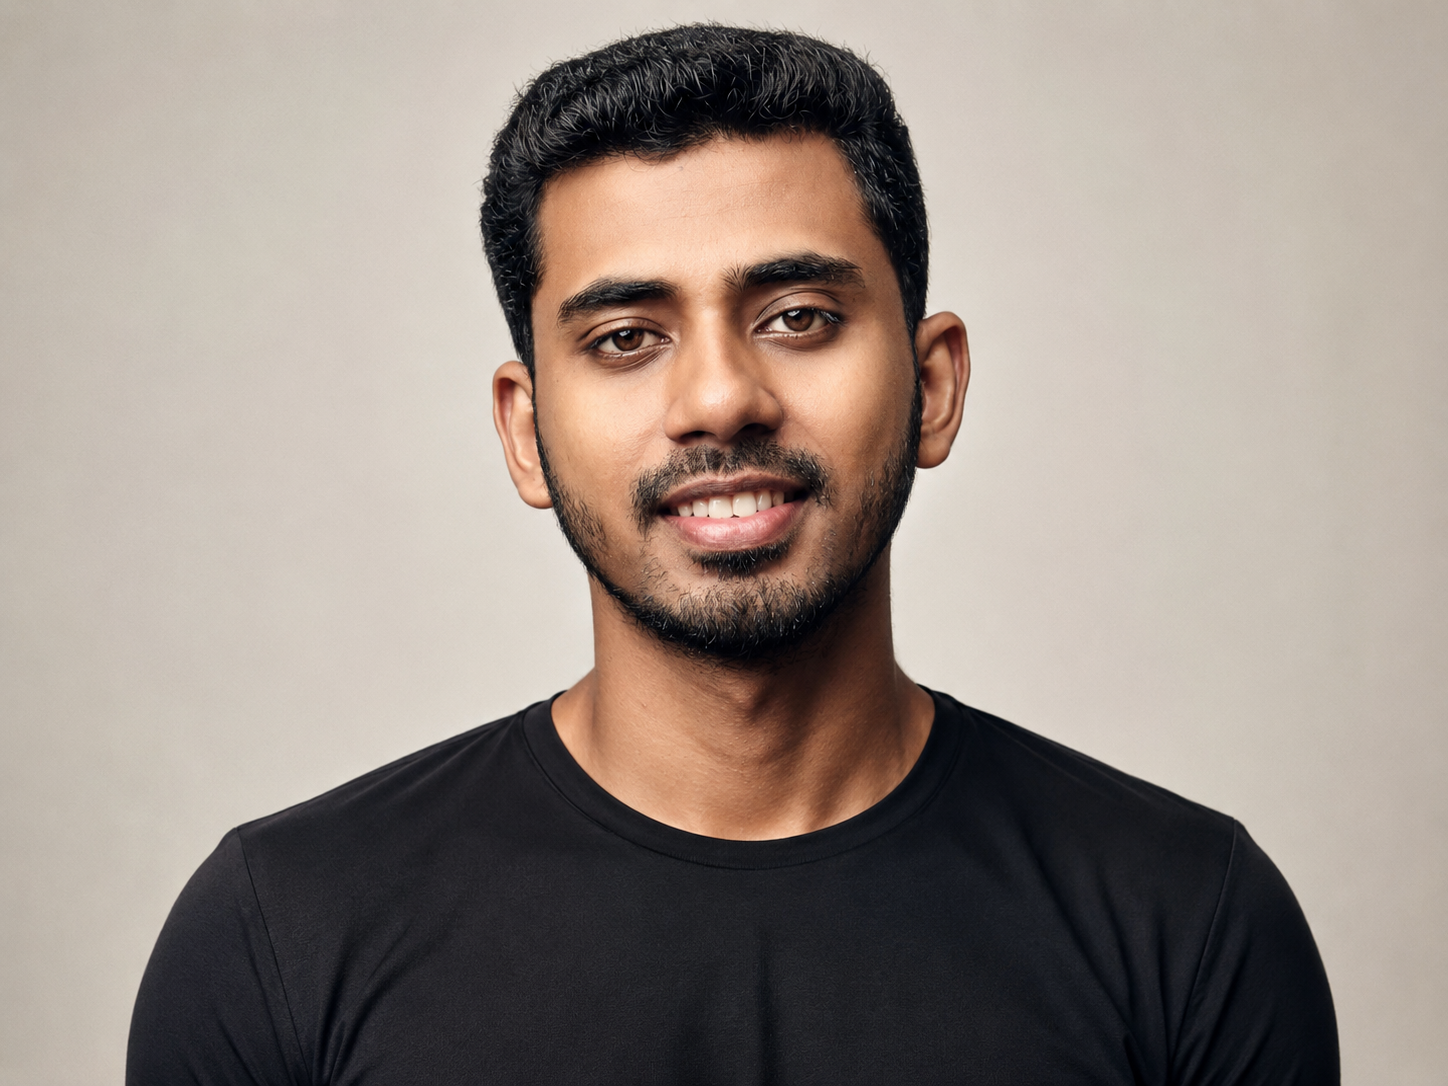
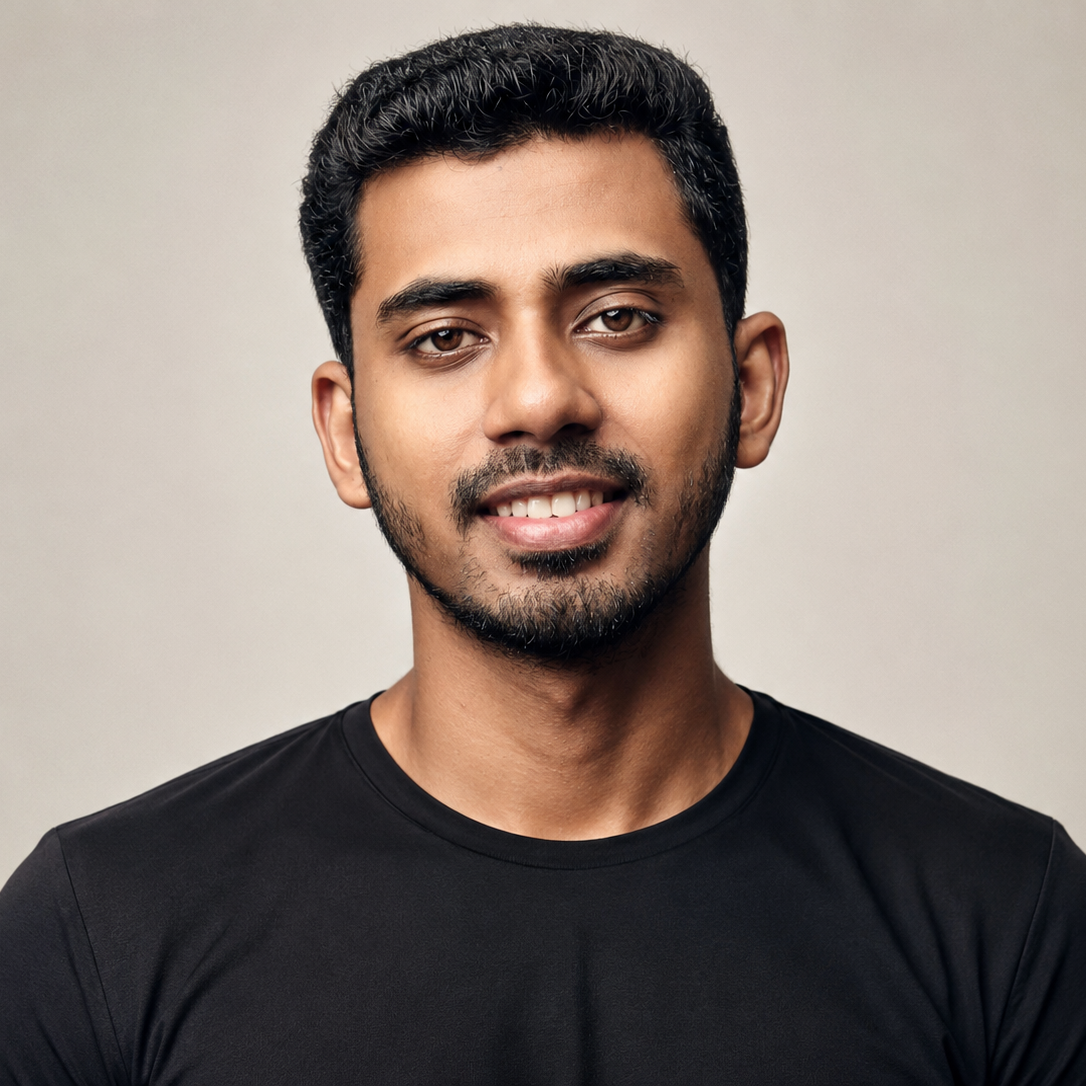
feat: enhance About page with new layout and social links; add Pronunciation component for name audio playback; update navigation styles

Changed region(s): [[0.0, 0.0, 1.0, 1.0], [0.1823, 0.9116, 0.2735, 1.0], [0.4558, 0.7597, 0.4862, 0.7901]]

diff --git a/app/about/page.tsx b/app/about/page.tsx
@@ -1,4 +1,4 @@
-import { LinkedinIcon, Github01Icon, Mail } from "@hugeicons/core-free-icons";
+import { LinkedinIcon, Github01Icon, Mail, IdIcon } from "@hugeicons/core-free-icons";
 import { HugeiconsIcon } from "@hugeicons/react";
 import Image from "next/image";
 import Link from "next/link";
@@ -10,8 +10,8 @@ import {
   PROFILE,
   ROUTES,
   SITE,
-  SOCIAL_HANDLES,
 } from "@/app/constants";
+import { Pronunciation } from "@/components/pronunciation";
 import {
   buildWebPageJsonLd,
   createPageMetadata,
@@ -37,14 +37,15 @@ const mailtoQuery = new URLSearchParams({
 const mailtoLink = `mailto:${PROFILE.primaryEmail}?${mailtoQuery}`;
 
 const socialLinks = [
-  { name: "LinkedIn", handle: SOCIAL_HANDLES.linkedIn, href: PROFILE.linkedInUrl, icon: LinkedinIcon },
-  { name: "GitHub", handle: SOCIAL_HANDLES.github, href: PROFILE.githubUrl, icon: Github01Icon },
-  { name: "Email", handle: PROFILE.primaryEmail, href: mailtoLink, icon: Mail },
+  { name: "LinkedIn", href: PROFILE.linkedInUrl, icon: LinkedinIcon },
+  { name: "GitHub", href: PROFILE.githubUrl, icon: Github01Icon },
+  { name: "Email", href: mailtoLink, icon: Mail },
+  { name: "ORCiD", href: PROFILE.orcidUrl, icon: IdIcon },
 ];
 
 export default function AboutPage() {
   return (
-    <section className="relative w-full ui-container ui-container-prose py-4 sm:py-8 lg:py-12">
+    <section className="relative w-full ui-container py-4 sm:py-8 lg:py-12">
       <script
         type="application/ld+json"
         dangerouslySetInnerHTML={{
@@ -60,42 +61,80 @@ export default function AboutPage() {
         }}
       />
 
-      <div className="space-y-10 sm:space-y-14">
-        {/* Avatar + identity */}
-        <div className="hero-fade-in flex items-center gap-5" style={{ animationDelay: "0ms" }}>
-          <div className="relative shrink-0 group cursor-default">
-            <div className="absolute inset-0 scale-125 rounded-full bg-blue-300/30 blur-lg opacity-0 transition-opacity duration-500 group-hover:opacity-100 dark:bg-blue-500/20" />
-            <div className="relative h-[72px] w-[72px] overflow-hidden rounded-full shadow-md ring-2 ring-blue-200/60 ring-offset-2 ring-offset-background transition-all duration-300 group-hover:ring-blue-300/90 group-hover:shadow-blue-100/60 dark:ring-blue-800/50 dark:ring-offset-background dark:group-hover:ring-blue-600/70">
-              <Image
-                src="/images/gulger-mallik@1x1.png"
-                alt={PROFILE.profileImageAlt}
-                width={72}
-                height={72}
-                className="rounded-full transition-transform duration-500 group-hover:scale-[1.06]"
-                priority
-              />
+      <div className="grid items-center gap-12 lg:grid-cols-2 lg:gap-16">
+        {/* Profile card over beige backdrop */}
+        <div
+          className="hero-fade-in relative flex justify-center py-10 sm:py-14"
+          style={{ animationDelay: "0ms" }}
+        >
+          <div
+            className="absolute inset-y-0 inset-x-0 bg-[#eadfd2] sm:right-16 dark:bg-[#2a2420]"
+            aria-hidden="true"
+          />
+          <div className="relative w-[280px] bg-[#f7f2ec] shadow-xl sm:w-[320px] sm:translate-x-6 dark:bg-[#1f1b18]">
+            <div className="flex flex-col items-center px-8 pb-9 pt-10 text-center">
+              <div className="h-40 w-40 overflow-hidden rounded-full bg-[var(--ui-bg-elevated)] sm:h-44 sm:w-44">
+                <Image
+                  src="/images/hero-image.png"
+                  alt={PROFILE.profileImageAlt}
+                  width={176}
+                  height={176}
+                  className="h-full w-full object-cover"
+                  priority
+                />
+              </div>
+              <h1 className="mt-8 text-xl font-bold tracking-tight text-[var(--ui-text-primary)]">
+                Mr. {SITE.ownerName}
+              </h1>
+              <Pronunciation />
+              <div className="mt-5 h-px w-10 bg-[var(--ui-text-primary)]" aria-hidden="true" />
+              <p className="mt-5 text-sm uppercase tracking-[0.18em] text-[var(--ui-text-secondary)]">
+                Researcher :{" "}
+                <Link
+                  href={PROFILE.affiliationUrl}
+                  target="_blank"
+                  rel="noreferrer"
+                  className="transition-colors hover:text-[var(--ui-text-primary)]"
+                >
+                  {PROFILE.affiliationName}
+                </Link>
+              </p>
             </div>
-          </div>
-          <div>
-            <h1 className="hero-name">{SITE.ownerName}</h1>
-            <p className="hero-role mt-1">
-              {PAGE_COPY.homepageRolePrefix}{" "}
-              <Link
-                href={PROFILE.affiliationUrl}
-                target="_blank"
-                rel="noreferrer"
-                className="hero-affiliation"
-              >
-                {PROFILE.affiliationName}
-              </Link>
-            </p>
+            <div className="flex items-center justify-center gap-9 bg-white py-4 dark:bg-[#171310]">
+              {socialLinks.map((link) => (
+                <Link
+                  key={link.name}
+                  href={link.href}
+                  target="_blank"
+                  rel="noreferrer"
+                  aria-label={link.name}
+                  className="text-[var(--ui-text-primary)] transition-opacity hover:opacity-60"
+                >
+                  <HugeiconsIcon icon={link.icon} className="h-5 w-5" aria-hidden="true" />
+                </Link>
+              ))}
+            </div>
           </div>
         </div>
 
-        {/* Personal narrative */}
+        {/* Greeting + narrative */}
         <div className="space-y-5">
-          <p className="hero-intro hero-fade-in" style={{ animationDelay: "90ms" }}>
-            {PAGE_COPY.homeIntroCompanyPrefix}{" "}
+          <p
+            className="hero-fade-in font-serif text-6xl text-[var(--ui-text-primary)] sm:text-7xl"
+            style={{ animationDelay: "90ms" }}
+          >
+            Hello
+          </p>
+          <h2
+            className="hero-fade-in pt-2 text-2xl font-medium text-[var(--ui-text-primary)]"
+            style={{ animationDelay: "150ms" }}
+          >
+            A Bit About Me
+          </h2>
+
+          <p className="ui-body-text hero-fade-in" style={{ animationDelay: "210ms" }}>
+            I am <strong className="text-[var(--ui-text-primary)]">{SITE.ownerName}</strong>,{" "}
+            {PAGE_COPY.homeIntroCompanyPrefix.replace("I'm ", "")}{" "}
             <Link
               href={EXTERNAL_LINKS.cosmokode}
               target="_blank"
@@ -107,7 +146,7 @@ export default function AboutPage() {
             {PAGE_COPY.homeIntroCompanySuffix}
           </p>
 
-          <p className="ui-body-text hero-fade-in" style={{ animationDelay: "180ms" }}>
+          <p className="ui-body-text hero-fade-in" style={{ animationDelay: "270ms" }}>
             My research explores Explainable AI, Multi-Criteria Decision Making, and Sustainable
             Software Engineering - areas where I believe rigorous thinking leads to better products.
             I publish through{" "}
@@ -119,41 +158,30 @@ export default function AboutPage() {
             >
               ORCiD
             </Link>{" "}
-            and keep a{" "}
-            <Link href={ROUTES.resume} className="hero-inline-link">
-              full resume
-            </Link>{" "}
-            available for download.
-          </p>
-
-          <p className="ui-body-text hero-fade-in" style={{ animationDelay: "250ms" }}>
-            Outside of work, I write about the things I find interesting - software, AI, and what
-            it means to build things responsibly. You can find those thoughts on my{" "}
+            and write about software, AI, and building things responsibly on my{" "}
             <Link href={ROUTES.blogs} className="hero-inline-link">
               blog
             </Link>
             .
           </p>
 
-          <p className="ui-body-text hero-fade-in" style={{ animationDelay: "320ms" }}>
-            {PAGE_COPY.homeSocialParagraph}
-          </p>
-        </div>
-
-        {/* Social / contact */}
-        <div className="flex flex-wrap items-center gap-6">
-          {socialLinks.map((link) => (
+          <div
+            className="hero-fade-in flex flex-wrap items-center gap-4 pt-3"
+            style={{ animationDelay: "330ms" }}
+          >
             <Link
-              key={link.name}
-              href={link.href}
-              target="_blank"
-              rel="noreferrer"
-              className="ui-link-subtle inline-flex items-center gap-1.5 align-middle"
+              href={ROUTES.resume}
+              className="flex items-center rounded-full bg-[var(--ui-text-primary)] px-8 py-3 text-sm font-medium text-background transition-opacity hover:opacity-80"
             >
-              <HugeiconsIcon icon={link.icon} className="h-4 w-4 shrink-0" aria-hidden="true" />
-              {link.handle}
+              Resume
             </Link>
-          ))}
+            <Link
+              href={ROUTES.projects}
+              className="flex items-center rounded-full border border-[var(--ui-border-soft)] px-8 py-3 text-sm font-medium text-[var(--ui-text-secondary)] transition-colors hover:border-[var(--ui-text-muted)] hover:text-[var(--ui-text-primary)]"
+            >
+              Projects
+            </Link>
+          </div>
         </div>
       </div>
     </section>

diff --git a/components/navigation.tsx b/components/navigation.tsx
@@ -49,7 +49,7 @@ export default function Navigation() {
               priority
             />
 
-            <span className="ui-brand-text text-lg md:text-xl lg:text-2xl font-bold tracking-widest uppercase">
+            <span className="ui-brand-text text-lg lg:text-2xl font-bold tracking-widest uppercase whitespace-nowrap">
               Gulger <span style={{ color: "var(--ui-accent)" }}>Mallik</span>
             </span>
 
@@ -57,12 +57,12 @@ export default function Navigation() {
 
           <div className="flex items-center gap-2 sm:gap-3">
             {/* Desktop nav links */}
-            <div className="hidden items-center gap-4 sm:flex">
+            <div className="hidden items-center gap-2.5 md:flex lg:gap-4">
               {NAV_LINKS.map((link) => (
                 <Link
                   key={link.href}
                   href={link.href}
-                  className={`ui-nav-link ${
+                  className={`ui-nav-link whitespace-nowrap ${
                     (link.href === "/" ? pathname === "/" : pathname.startsWith(link.href))
                       ? "ui-nav-active"
                       : ""
@@ -80,7 +80,7 @@ export default function Navigation() {
               onClick={() => setMobileOpen((open) => !open)}
               aria-expanded={mobileOpen}
               aria-label={mobileOpen ? "Close navigation menu" : "Open navigation menu"}
-              className="ui-theme-toggle sm:hidden"
+              className="ui-theme-toggle md:hidden"
             >
               <svg
                 width="18"
@@ -103,7 +103,7 @@ export default function Navigation() {
 
       {/* Backdrop */}
       <div
-        className={`fixed inset-0 z-40 bg-black/30 backdrop-blur-[2px] transition-opacity duration-300 sm:hidden ${
+        className={`fixed inset-0 z-40 bg-black/30 backdrop-blur-[2px] transition-opacity duration-300 md:hidden ${
           mobileOpen ? "opacity-100" : "pointer-events-none opacity-0"
         }`}
         onClick={close}
@@ -112,7 +112,7 @@ export default function Navigation() {
 
       {/* Right-side drawer */}
       <div
-        className={`fixed right-0 top-0 z-50 flex h-full w-64 flex-col border-l border-[var(--ui-border-subtle)] bg-background shadow-2xl transition-transform duration-300 ease-[cubic-bezier(0.16,1,0.3,1)] sm:hidden ${
+        className={`fixed right-0 top-0 z-50 flex h-full w-64 flex-col border-l border-[var(--ui-border-subtle)] bg-background shadow-2xl transition-transform duration-300 ease-[cubic-bezier(0.16,1,0.3,1)] md:hidden ${
           mobileOpen ? "translate-x-0" : "translate-x-full"
         }`}
         aria-label="Navigation menu"

diff --git a/components/pronunciation.tsx b/components/pronunciation.tsx
@@ -1,0 +1,41 @@
+"use client";
+
+import { VolumeHighIcon } from "@hugeicons/core-free-icons";
+import { HugeiconsIcon } from "@hugeicons/react";
+import { useState } from "react";
+
+// Phonetic respelling spoken by the synthesiser so "Gulger" comes out as "Gul-jar".
+const SPOKEN_NAME = "Gul jar Maa llik";
+
+export function Pronunciation() {
+  const [speaking, setSpeaking] = useState(false);
+
+  const speak = () => {
+    if (!("speechSynthesis" in window)) return;
+    window.speechSynthesis.cancel();
+    const utterance = new SpeechSynthesisUtterance(SPOKEN_NAME);
+    utterance.lang = "en-US";
+    const americanVoice = window.speechSynthesis
+      .getVoices()
+      .find((voice) => voice.lang.replace("_", "-").startsWith("en-US"));
+    if (americanVoice) utterance.voice = americanVoice;
+    utterance.onend = () => setSpeaking(false);
+    utterance.onerror = () => setSpeaking(false);
+    setSpeaking(true);
+    window.speechSynthesis.speak(utterance);
+  };
+
+  return (
+    <button
+      type="button"
+      onClick={speak}
+      aria-label="Hear how Gulger is pronounced"
+      className={`mt-2 inline-flex items-center gap-1.5 text-sm transition-colors hover:text-[var(--ui-text-primary)] ${
+        speaking ? "text-[var(--ui-accent)]" : "text-[var(--ui-text-muted)]"
+      }`}
+    >
+      <HugeiconsIcon icon={VolumeHighIcon} className="h-4 w-4 shrink-0" aria-hidden="true" />
+      <span>&ldquo;Gul-jar Maa-llik&rdquo;</span>
+    </button>
+  );
+}
